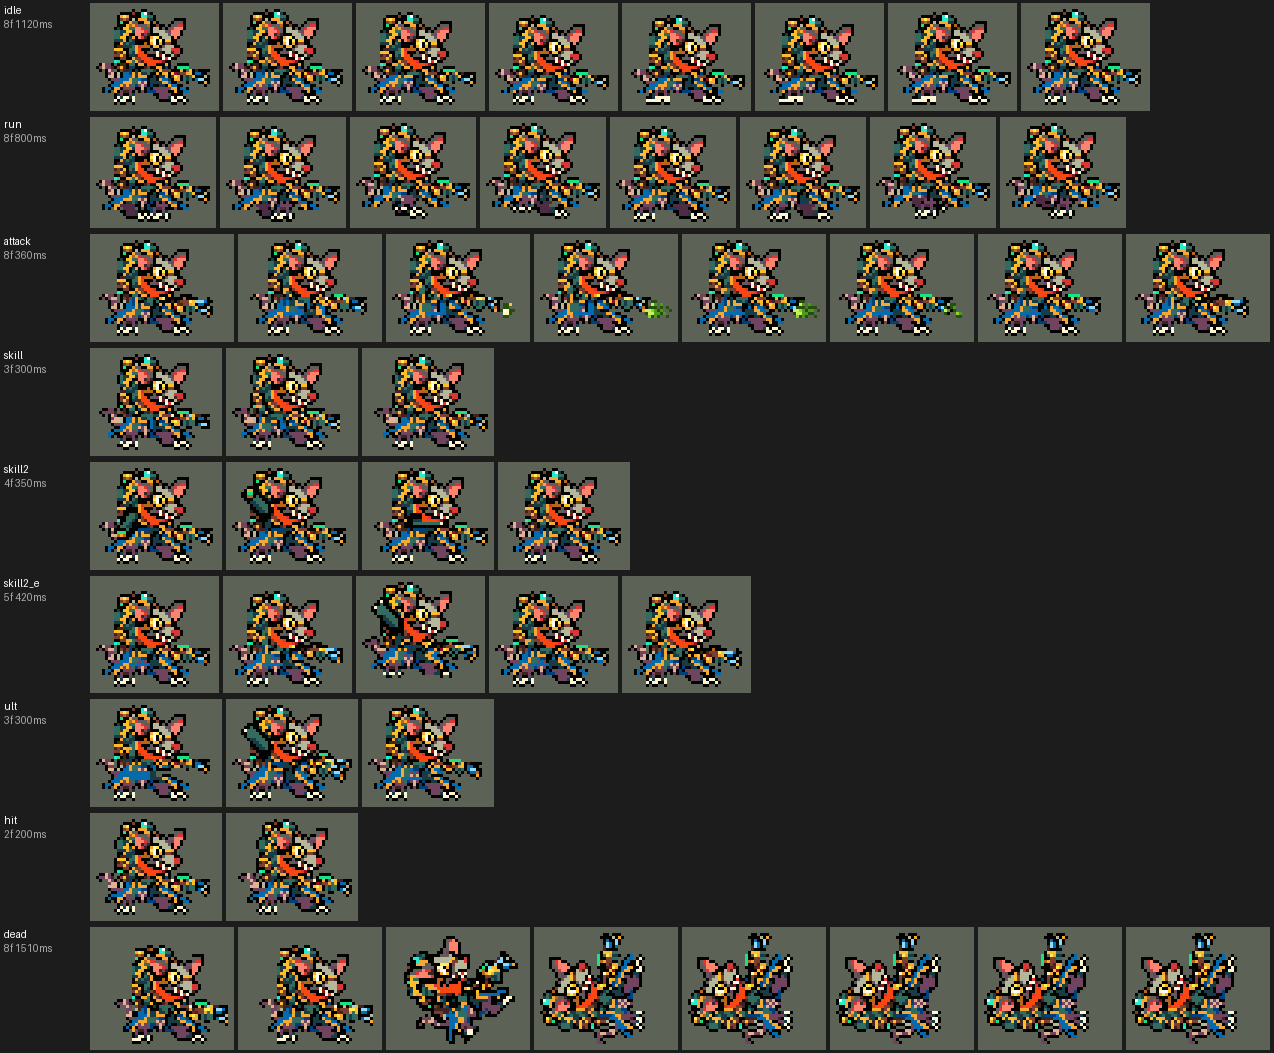
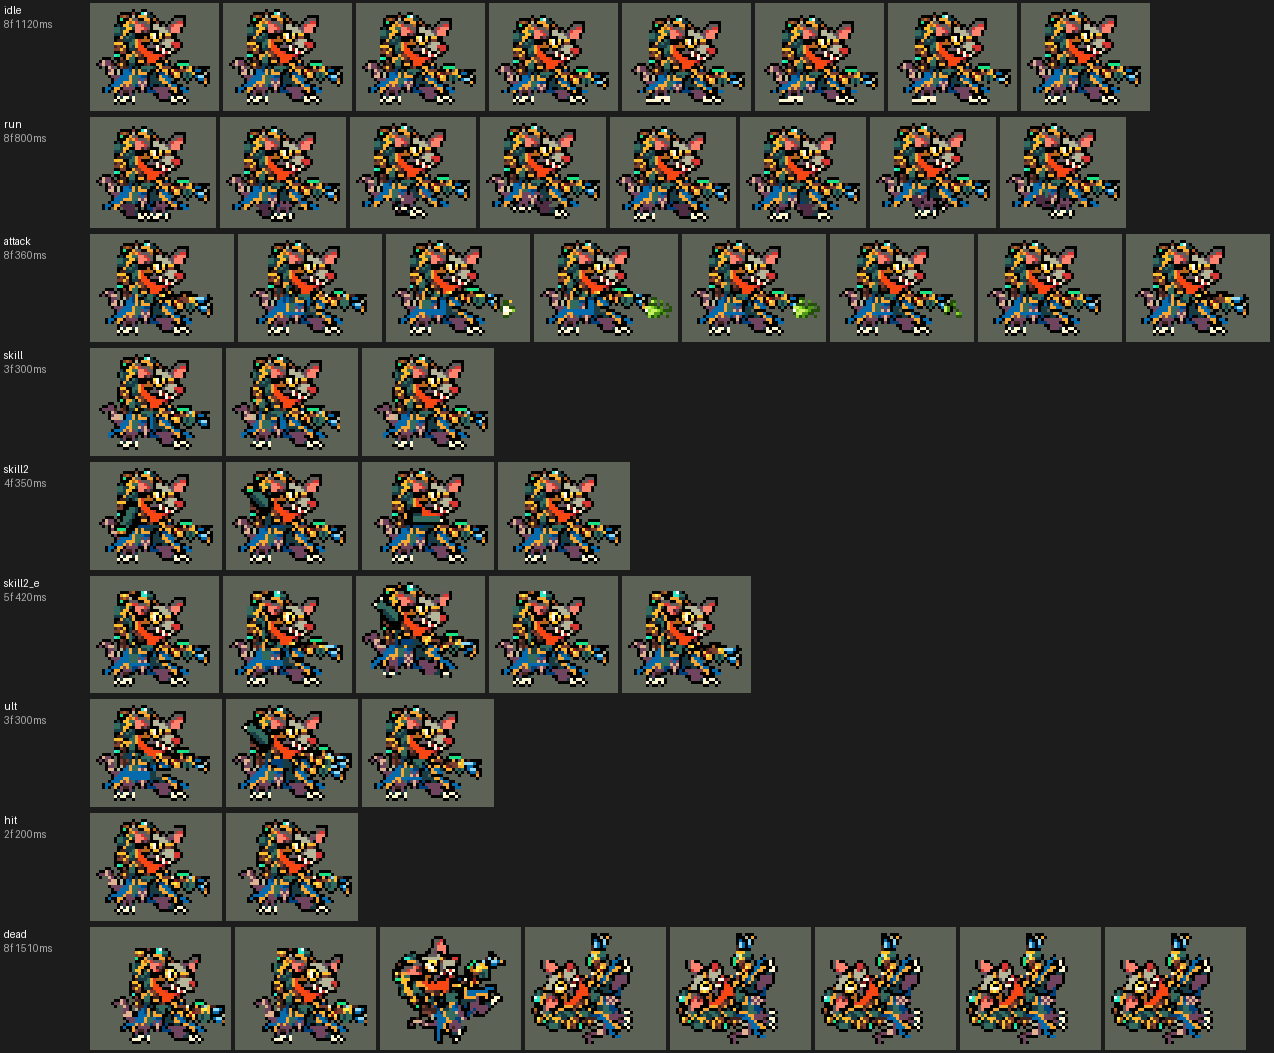
Twitch's shrink spread over the head too: his legs were squashed
The user: 「老鼠上下摇摆模型变形」. SHRINK_KEEP "!FBFDF7+1,1,1,1" boxed the eye
white from its first square to its last - and Twitch has one on top of his
head - so no head row could go and all six rows came out of his torso and
legs (rows -8 -5 -3 1 4 7 from the pivot): the legs squashed under the robe,
plain to see as he bobbed in the run. Now "#FBFDF7" keeps only those four
squares and "!F94714+3,0,1,1" the face from the eyes to the mouth (the red of
his mouth and scarf, rows 13-19 in every standing frame, grown 3 rows up):
the cut rows are -24 -17 (ears, forehead), -5 -3 (torso), 4 7 (legs). No
frame has more pieces, holes or lone outline squares than main (the muzzle
spray's detached squares are gone too).

diff --git a/tools/art/import_native.py b/tools/art/import_native.py
@@ -653,7 +653,7 @@ SHRINK = {"xerath": 0.9, "renekton": 0.9, "twitch": 0.85}      # players (2026-1
 # "=RRGGBB": no row through a square of that colour (Renekton's blue knee guards: a row through them halved the guard
 # and shifted his leg's stripes - 「这里是像素缺失吗」「在左脚啊」); not in his death, where the lying body's blue made
 # every low row "knee" and the cut fell on his head
-SHRINK_KEEP = {"xerath": ["!FBFCFC"], "twitch": ["!FBFDF7+1,1,1,1"], "renekton": ["!F9D206+2,1,2,2", "!A8161F", "=0218B2", "=010E84"]}
+SHRINK_KEEP = {"xerath": ["!FBFCFC"], "twitch": ["#FBFDF7", "!F94714+3,0,1,1"], "renekton": ["!F9D206+2,1,2,2", "!A8161F", "=0218B2", "=010E84"]}
 SHRINK_KEEP_TAG = {"renekton": {"dead": ["!F9D206+2,1,2,2", "!A8161F"]}}
 # the lines follow the body from frame to frame, anchored on a colour only one feature has: cut at fixed canvas lines,
 # a cast or an attack that moves him took different lines of him in each frame - 「缩小后放技能的时候模型有点变形」

diff --git a/README.md b/README.md
@@ -130,7 +130,7 @@
 ![卡兹克演示：他跑进场，腰间亮着无形威胁的洋红火光，第一爪打出被动、德莱厄斯被减速；Q 品尝恐惧：德莱厄斯身边没有队友，孤立无援的重击；E 跃击跳到身后的盖伦身上，落地的冲击波，接 W 虚空突刺甩出尖刺打中盖伦、减速、自己回血；他转身朝左（红色方的样子）跑回德莱厄斯，再一记孤立的 Q；R 虚空来袭：虚空爆发后隐身（画成半透明），出来一爪带被动，德莱厄斯倒下，E 刷新；最后一次进化](docs/preview/league_khazix_showcase.gif?v=1008idle6)
 
 ![布兰德演示：他走进场，朝德莱厄斯扔两个火球；W 烈焰之柱：德莱厄斯脚下亮起一圈火纹，火柱冲天而起，他身上烧起来、头顶亮起一个火苗；E 烈火燃烧：火从德莱厄斯脚下往外烧成一圈，蔓延到后面的盖伦，头顶两个火苗；Q 火焰烙印：火球打中德莱厄斯，他被晕住，头顶三个火苗、脚下的火焰圈开始倒计时，两秒后轰地炸开，盖伦也被炸到；布兰德绕到他们右边转身朝左（红色方的样子）放 R 烈焰风暴：身边卷起火焰，火种打中盖伦，在两人之间弹了五次，每次从上面砸下来，脚下烧起余烬（减速），德莱厄斯倒下](docs/preview/league_brand_showcase.gif?v=1008idle6)
-![图奇演示：他放 Q 埋伏，身边炸开一团紫烟，隐身（画成半透明）摸到德莱厄斯面前，第一箭现形，腰两侧亮起攻速毒火，两箭给德莱厄斯上毒；W 剧毒之桶：毒桶抛到德莱厄斯和身后的盖伦中间，绿色毒液溅满两人、地上留下毒池，两人减速；E 毒性爆发：他身边炸开毒云，两人身上的毒刺爆炸；他绕到右边转身朝左（红色方的样子）开 R 火力全开：身边冲起绿色光丝，穿透箭一箭穿过盖伦和德莱厄斯，德莱厄斯倒下，头顶亮起埋伏刷新的小老鼠](docs/preview/league_twitch_showcase.gif?v=1009size)
+![图奇演示：他放 Q 埋伏，身边炸开一团紫烟，隐身（画成半透明）摸到德莱厄斯面前，第一箭现形，腰两侧亮起攻速毒火，两箭给德莱厄斯上毒；W 剧毒之桶：毒桶抛到德莱厄斯和身后的盖伦中间，绿色毒液溅满两人、地上留下毒池，两人减速；E 毒性爆发：他身边炸开毒云，两人身上的毒刺爆炸；他绕到右边转身朝左（红色方的样子）开 R 火力全开：身边冲起绿色光丝，穿透箭一箭穿过盖伦和德莱厄斯，德莱厄斯倒下，头顶亮起埋伏刷新的小老鼠](docs/preview/league_twitch_showcase.gif?v=1009size2)
 ![萨勒芬妮演示：她站在浮空小舞台上，头顶飘着两个音符，一记带音符的彩色音球打中德莱厄斯；Q 清籁穿云：高音抛到德莱厄斯和身后的盖伦之间，落地炸开一圈声波环；E 增幅节拍：声波推过两人（脚下五线谱光减速），回音的彩虹光一闪，第二道声波把两人定身；接着 W 聚和心声：脚下扩开歌声光环，她和身后的金克丝罩上护盾泡泡，随后飘起回血的爱心；她滑到两人右边、转身朝左（红色方的样子）放 R 炫音返场：舞台聚光灯亮起，一道大音波穿过盖伦和德莱厄斯，魅惑的爱心炸开，紧接着 E 让被魅惑的德莱厄斯头顶转起眩晕音符；最后舞台下亮起回音就绪的彩光](docs/preview/league_seraphine_showcase.gif?v=1009head2)
 
 ![雷克顿演示：他跑进场，月牙刀砍德莱厄斯（刀光画在动作里），三刀后怒气满了，身后烧起红光；Q 巨鳄狂袭：一圈象牙白的刀光扫过德莱厄斯和身后的盖伦；E 横冲直撞：身后拖着沙色风痕冲过德莱厄斯；满怒气的 W 冷酷捕猎：身上冒出红色怒气，转身劈三刀，德莱厄斯头顶冒金星晕 1.5 秒；二段 E 再冲回来；R 终极统治：脚下炸开沙暴、头顶亮起金色的鳄鱼神符号，之后脚下一圈沙暴光环每半秒烫两人，他接着砍，德莱厄斯倒下](docs/preview/league_renekton_showcase.gif?v=1008shrink)
@@ -2948,7 +2948,7 @@ python tools/art/preview_twitch.py        # 逐帧预览、特效预览、演示
 - 原画：A 是英雄联盟的待机（单手端弩、另一只爪子垂着），B 是普攻起手的站姿（两手横端弩、尾巴卷起）。用户选 B（身形紧凑，两只手都在弩上，做动作时手臂和弩能整块转）。
 - 造型：一开始就按德莱厄斯 36 行左右的个子要（卡兹克 45 行做出来后用户嫌大）。Codex 自己从生图原稿删到 36 / 38 行，B 删掉 13 行后腿被压在斗篷下面；我按原稿自己的格子读回（58 × 51 格），脸和护目镜那几行几列不删，整行整列删到 38 行。用户选「B 38（我读回的）」。
 - 动作：英雄联盟的 W 是空翻扔桶、E 是跳起来喷毒、死亡是翻跟头，和「放技能时的身体 = 待机的身体」冲突，包里都改成站着做：扔桶站着单手扔，E 小跳 3 行、手臂甩开，死亡照希维尔（受击、后退、整个人转 45°、再转 90° 仰躺）。Codex 第 2 步用造型自己的零件摆（头每帧贴回、鼠腿是造型自己的），待机、普攻、Q、受击、死亡照用。用户：「完成下一步 有不对的地方你帮忙修改 灵活利用工具」，`fix_twitch_strips.py` 修了这几处：W / E / R 里手臂抬走时，Codex 把 12 × 12 格一整块（连背包下沿、腰包、斗篷）切走，再用平涂的条纹补，身上一块蓝色方块；造型里的近侧手臂只是一条上臂加一团手，连不成一块，所以按造型自己的手臂颜色做了一条整块的手臂（3 格宽、绿 / 深青两档、绿爪子、一圈描边），从肩膀外侧长出来、整块按 45° 转，手臂离开的地方只补躯干自己的青 / 绿 / 蓝；扔桶那两帧手里是一个带描边的小毒桶。R 的弩原来往右上挪 8 格、和身体断开，改成抬 4 格、往前 2 格，弩托还贴着胸口。跑步的远侧腿原来被换成腰带的深棕色（两脚之间一坨棕色），改成腿自己灰紫色暗一档。
-- 缩小（10 月 9 日，用户：「老鼠模型有点大」）：待机 38 × 44、977 个像素，是射手里最大的之一（金克丝 725、提莫 709）。三档里用户选了 85%：`import_native.py` 的 `SHRINK` 在导入时只删整行整列（`shrink_frames.py`，不重新采样），每个动作删 6–7 行、6–7 列，眼睛那几格白色（#FBFDF7，每帧都是同一个头）不许删穿，也用它在每帧对齐删的位置；待机变成 32 × 38、711 个像素。头像点 (1, −30)（`setup_twitch.py` 的 `VIEW`）。和 main 逐帧比，只有普攻第 3 帧弩口毒雾末端 2 个像素和毒雾主体隔开了。
+- 缩小（10 月 9 日，用户：「老鼠模型有点大」）：待机 38 × 44、977 个像素，是射手里最大的之一（金克丝 725、提莫 709）。三档里用户选了 85%：`import_native.py` 的 `SHRINK` 在导入时只删整行整列（`shrink_frames.py`，不重新采样），每个动作删 6–7 行、6–7 列；待机变成 32 × 38、711 个像素。头像点 (1, −30)（`setup_twitch.py` 的 `VIEW`）。第一版保护色用了眼白 #FBFDF7 的整框，可它在头顶也有一格，整颗头都不许删，6 行全挤到躯干和腿上，腿被压扁，用户：「老鼠上下摇摆模型变形」。现在只护眼白那 4 格本身和"眼睛到嘴"一框（嘴和围巾的橙红 #F94714 往上扩 3 行），删的行分到头上 2 行（耳朵、额头）、躯干 2 行、腿 2 行；眼白仍用来逐帧对齐删的位置。和 main 逐帧比，没有一帧多出碎块、小洞或孤立描边。
 - 特效：Codex 第 3 步把 17 张都按游戏尺寸画了一份（[`codex_fx/twitch-fx/pixel_1x/`](assets/source/twitch/codex_fx/twitch-fx/pixel_1x/)），`tools/art/import_twitch.py` 每格切出、按锚点（中心、箭尖、脚底、喷口）放好，导入时逐格检查对称。
 - 红色方：飞出去的弩箭、穿透箭、毒桶严格上下对称；晚于动作第一 tick 播放的（现形、刷新、毒云、开大）不跟随、严格左右对称；挂在他身上、脚下循环的（攻速毒火、大招光丝、减速）和 Q 的隐身烟也左右对称，毒池上下左右都对称；挂在他身上的画面都在站位点那一列。只有弩口的毒烟有朝向，画进普攻的出手帧里（`twitch_bake.json`），跟着他一起翻转。演示 GIF 后半段他转身朝左开大，就是红色方的样子。
 
